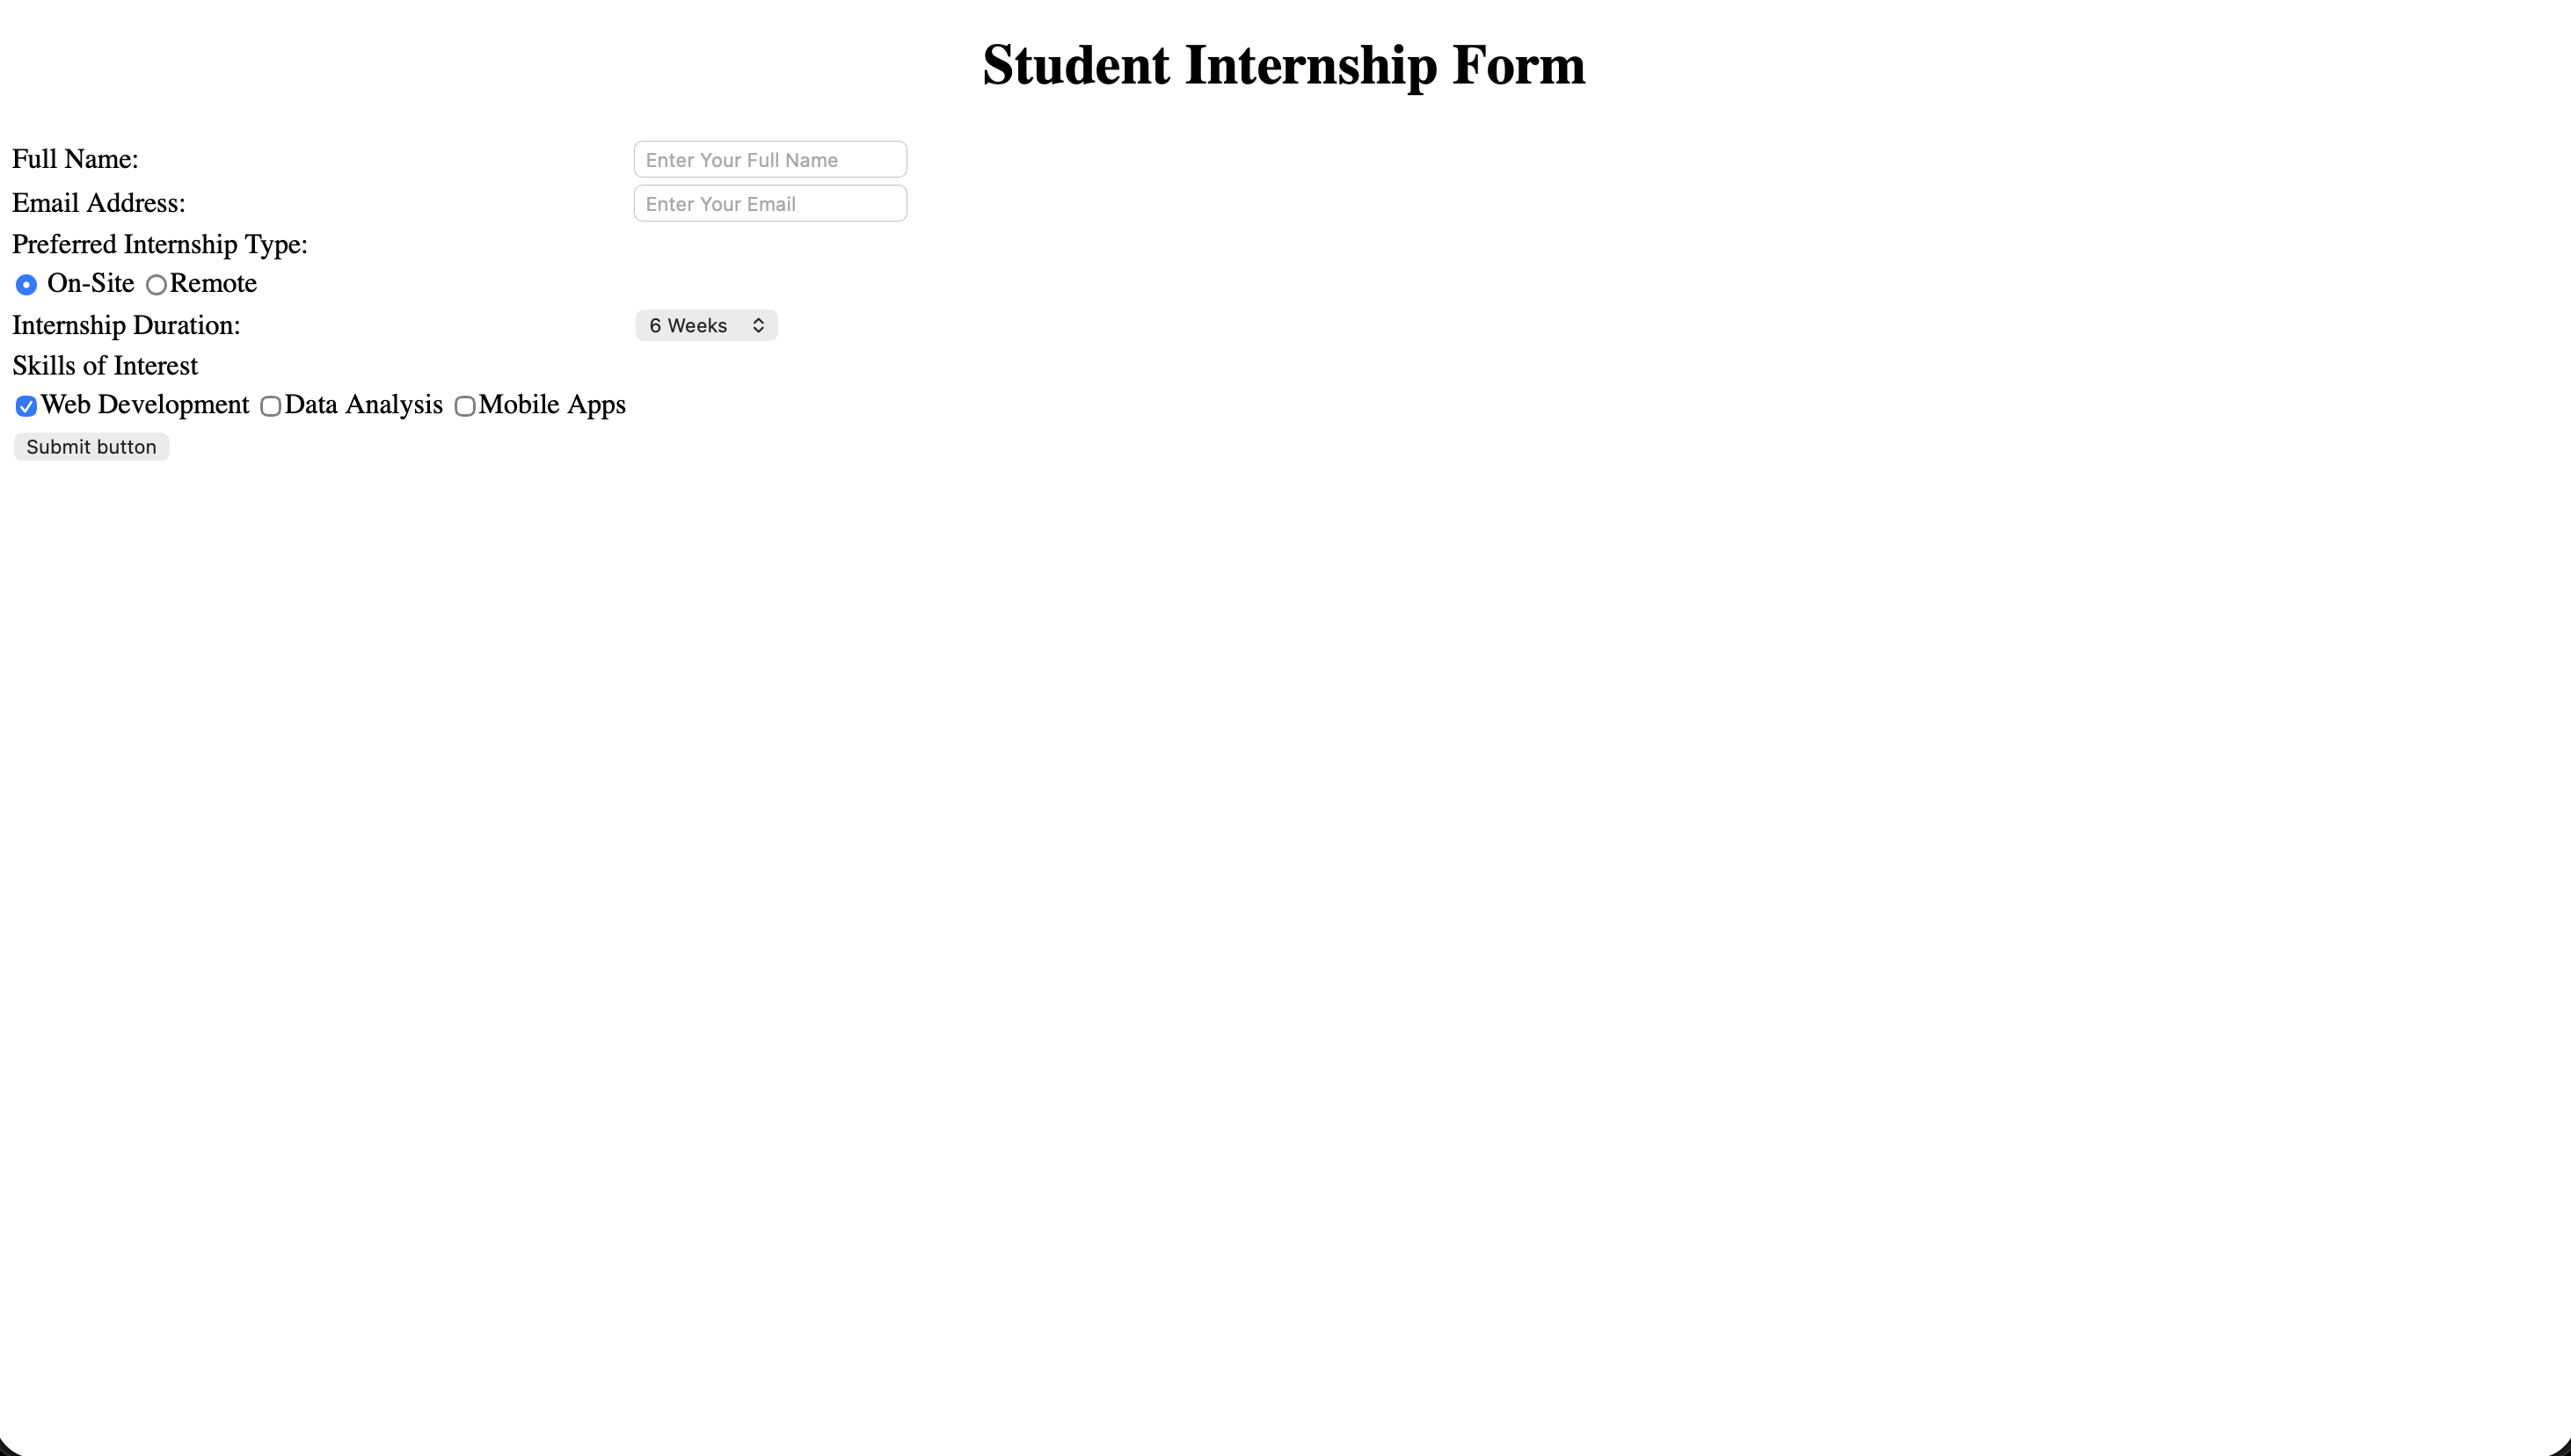
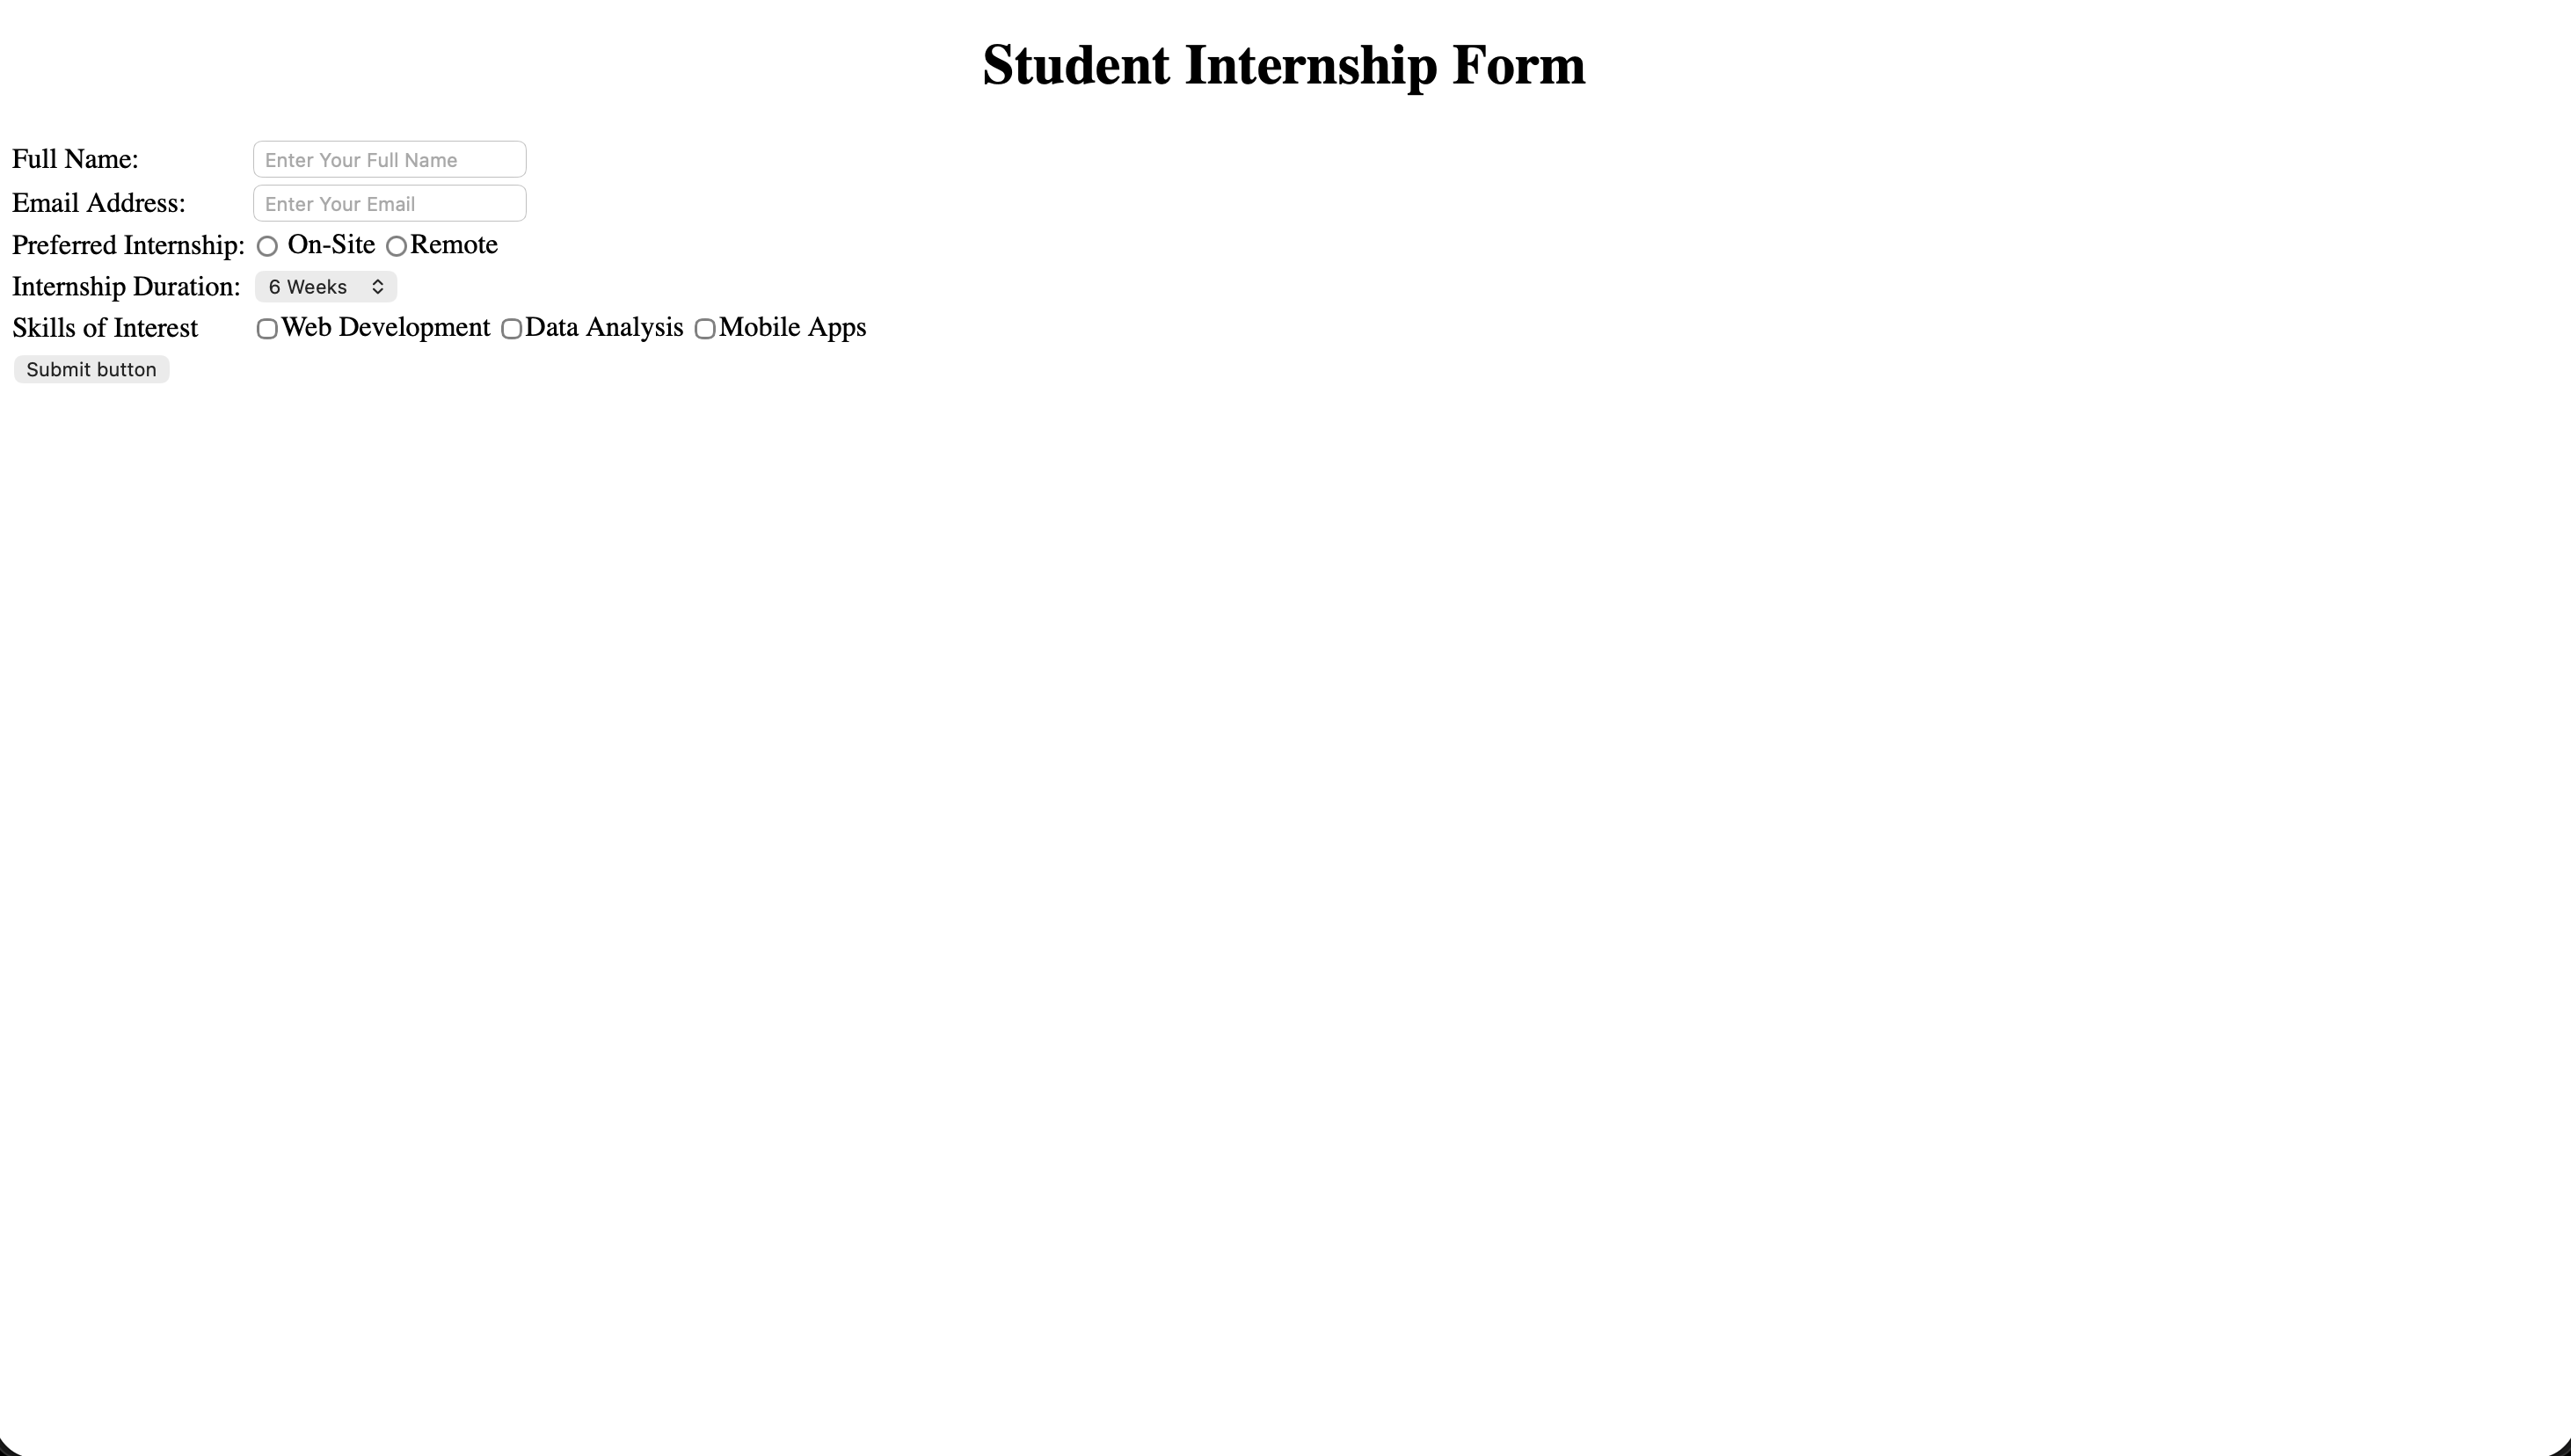
Refactor Lab_Task_1

diff --git a/Mid/Lab_Task_1/Lab_Task_1_35.html b/Mid/Lab_Task_1/Lab_Task_1_35.html
@@ -25,10 +25,8 @@
             </tr>
             <tr>
                 <td>
-                    Preferred Internship Type:
+                    Preferred Internship:
                 </td>
-            </tr>
-            <tr>
                 <td>
                     <input type="radio" value="on-site" name="intern_type"> On-Site
                     <input type="radio"value="remote" name="intern_type">Remote
@@ -47,8 +45,6 @@
                 <td>
                     Skills of Interest
                 </td>
-            </tr>
-            <tr>
                 <td>
                 <input type="checkbox" value="web_dev" name="interest">Web Development
                 <input type="checkbox" value="data_analysis" name="interest">Data Analysis